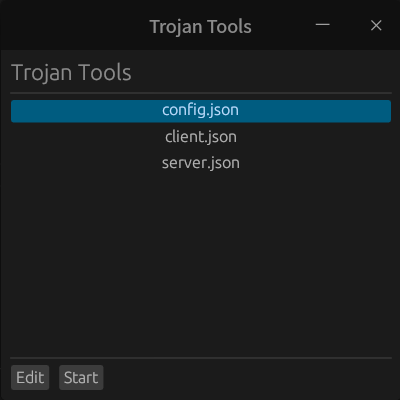
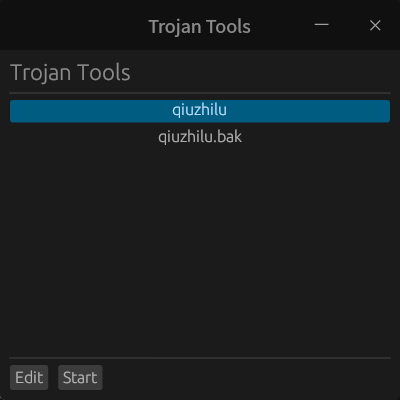
更新README.md

diff --git a/README.md b/README.md
@@ -2,27 +2,50 @@
 这是一个使用rust egui编写的一个trojan GUI工具，主要目的是方便从桌面直接启动trojan，避免了命令行的烦恼。
 
 # 配置
-- 需要自行下载trojan，并将trojan应用程序二进制文件需要满足如下任一要求即可：
-    - 放置于环境变量PATH目录之下
-    - 放置到trojan-ui的同级目录。
-- 配置文件需要是json格式的，并且同样放置在trojan-ui的同级目录下。
+配置文件需要是json格式的，并且文件名称必须为config.json。
+具体路径有如下选择：
+- 当前二进制路径/config.json
+- $XDG_CONFIG_HOME/trojan_ui/config.json
+- $HOME/trojan_ui/config.json
+- /etc/trojan_ui/config.json
 
 下面给出一个可用的配置例子：
 ```
-trojan/
-   ├─client.json
-   ├─config.json
-   ├─server.json
-   ├─trojan
-   └─trojan-ui
+{
+    "configs": [
+      {
+        "remarks": "example",
+        "server": "example.com",
+        "server_port": 443,
+        "client": "127.0.0.1",
+        "client_port": 1080,
+        "sni": "example.com",
+        "password": "dfasidfallljfa",
+        "verify": true
+      },
+      {
+        "remarks": "test",
+        "server": "test.cn",
+        "server_port": 443,
+        "client": "127.0.0.1",
+        "client_port": 1080,
+        "sni": "test.cn",
+        "password": "fasdfjlsdfwwer",
+        "verify": true
+      }
+    ]
+}
 ```
-配置文件是trojan原生支持的配置文件，该配置文件最终会通过```trojan -c xxx.json```的方式起作用。
 
 # 编译
 ```
 cargo build
 ```
 
+如果要编译release版本，请使用
+```
+cargo build -r
+```
 # 运行
 ```
 ./trojan-ui
@@ -34,8 +57,6 @@ cargo build
 
 # TODO
 1. 界面美化
-2. json配置文件解析
-3. 配置编辑功能
-4. 配置添加和删除功能
-5. 二维码导入配置功能
-6. 通过链接方式导入配置功能(trojan://passwd@url:port#remark)
+2. 配置添加和删除和编辑功能
+3. 二维码导入配置功能
+4. 通过链接方式导入配置功能(trojan://passwd@url:port#remark)
